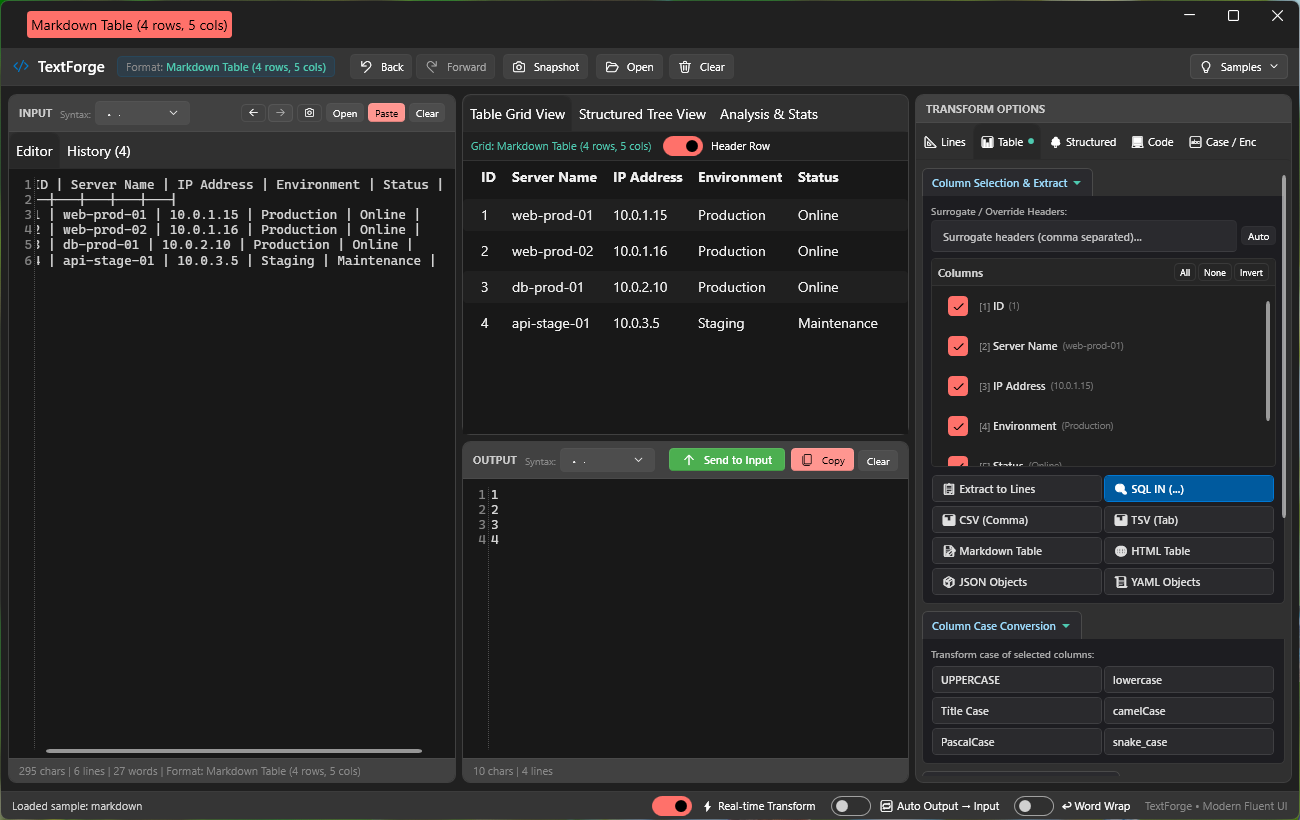
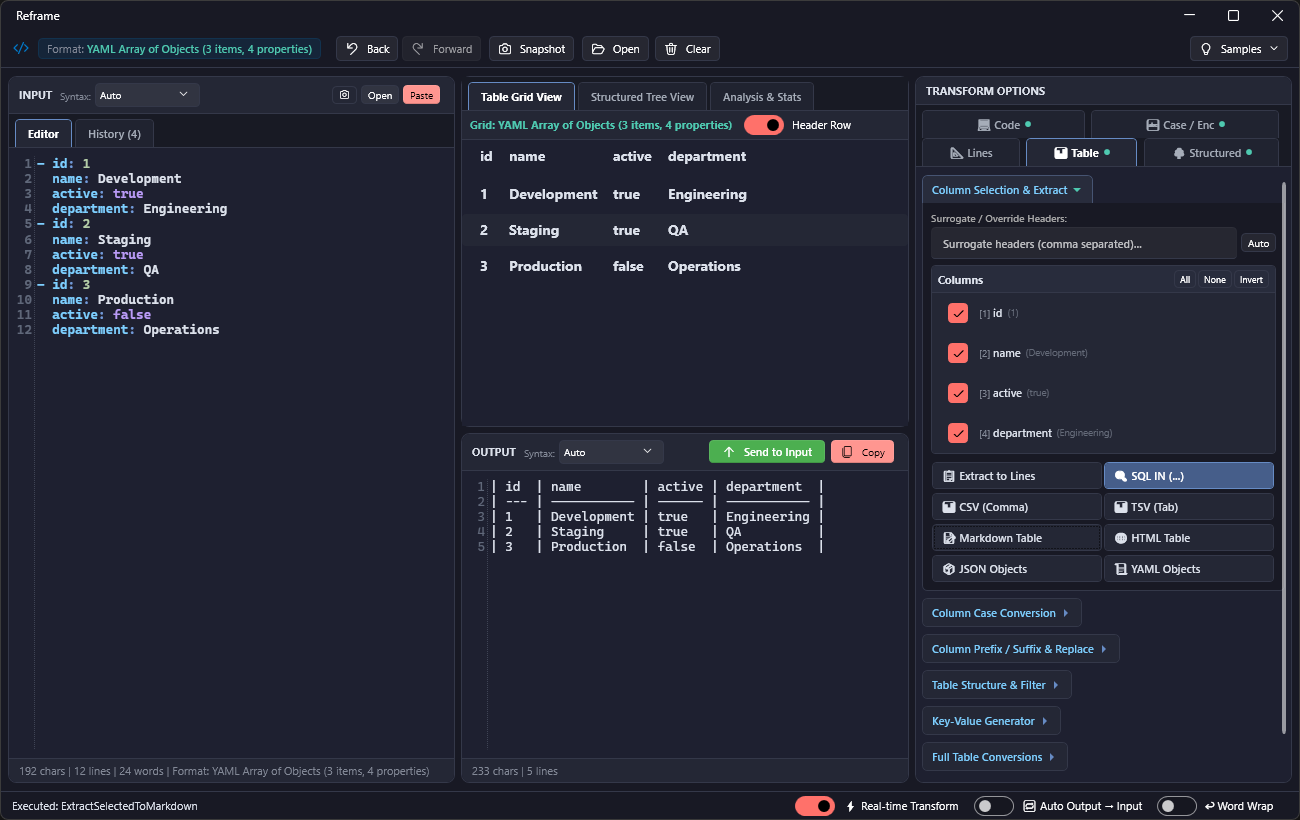
Update look and feel

Changed region(s): [[0.0, 0.0, 1.0, 1.0]]

diff --git a/Reframe/Highlighting/DarkThemeHighlighting.cs b/Reframe/Highlighting/DarkThemeHighlighting.cs
@@ -122,20 +122,20 @@ public static class DarkThemeHighlighting
 
         // XSHD definition for CSV / TSV with rich dark navy theme colors:
         // - Quoted strings (warm orange #CE9178)
-        // - Delimiters (bold slate blue #668BC4)
+        // - Delimiters (bold slate blue #729BDB)
         // - Numbers / numeric cells (soft sage green #B5CEA8)
-        // - Booleans / null keywords (purple #A78BFA)
+        // - Booleans / null keywords (bright purple #BA9BF7)
         // - Date / timestamps (teal #4EC9B0)
-        // - Comments (slate gray #5C6682)
+        // - Comments (slate gray #6E7894)
         // - Default unquoted field text (crisp foreground #DCE1EB)
         string xshd = $@"<?xml version=""1.0"" encoding=""utf-8""?>
 <SyntaxDefinition name=""{name}"" extensions=""{string.Join(";", extensions)}"" xmlns=""http://icsharpcode.net/sharpdevelop/syntaxdefinition/2008"">
-    <Color name=""Delimiter"" foreground=""#668BC4"" fontWeight=""bold"" />
+    <Color name=""Delimiter"" foreground=""#729BDB"" fontWeight=""bold"" />
     <Color name=""QuotedString"" foreground=""#CE9178"" />
     <Color name=""Number"" foreground=""#B5CEA8"" />
-    <Color name=""BooleanOrNull"" foreground=""#A78BFA"" fontWeight=""bold"" />
+    <Color name=""BooleanOrNull"" foreground=""#BA9BF7"" fontWeight=""bold"" />
     <Color name=""DateTime"" foreground=""#4EC9B0"" />
-    <Color name=""HeaderComment"" foreground=""#5C6682"" fontStyle=""italic"" />
+    <Color name=""HeaderComment"" foreground=""#6E7894"" fontStyle=""italic"" />
 
     <RuleSet>
         <!-- Comments (lines starting with # or //) -->
@@ -198,13 +198,13 @@ public static class DarkThemeHighlighting
     {
         string xshd = @"<?xml version=""1.0"" encoding=""utf-8""?>
 <SyntaxDefinition name=""YAML"" extensions="".yaml;.yml"" xmlns=""http://icsharpcode.net/sharpdevelop/syntaxdefinition/2008"">
-    <Color name=""Comment"" foreground=""#5C6682"" fontStyle=""italic"" />
+    <Color name=""Comment"" foreground=""#6E7894"" fontStyle=""italic"" />
     <Color name=""QuotedString"" foreground=""#CE9178"" />
     <Color name=""Key"" foreground=""#7DCFFF"" />
-    <Color name=""Delimiter"" foreground=""#668BC4"" fontWeight=""bold"" />
+    <Color name=""Delimiter"" foreground=""#729BDB"" fontWeight=""bold"" />
     <Color name=""Number"" foreground=""#B5CEA8"" />
-    <Color name=""BooleanOrNull"" foreground=""#A78BFA"" fontWeight=""bold"" />
-    <Color name=""Directive"" foreground=""#6B7CA8"" />
+    <Color name=""BooleanOrNull"" foreground=""#BA9BF7"" fontWeight=""bold"" />
+    <Color name=""Directive"" foreground=""#8294C4"" />
 
     <RuleSet>
         <!-- Comments -->
@@ -276,17 +276,17 @@ public static class DarkThemeHighlighting
 
     private static IHighlightingDefinition ApplyDarkThemeColors(IHighlightingDefinition definition)
     {
-        // Desaturated dark navy theme color palette (Calm Slate Blue rgb(30, 32, 48) style)
-        var keywordBrush = new SimpleHighlightingBrush(Color.FromRgb(0x66, 0x8B, 0xC4));       // #668BC4 Slate Blue
-        var controlFlowBrush = new SimpleHighlightingBrush(Color.FromRgb(0xA7, 0x8B, 0xFA));   // #A78BFA Soft Lavender
+        // Bright, high-contrast dark navy theme color palette
+        var keywordBrush = new SimpleHighlightingBrush(Color.FromRgb(0x72, 0x9B, 0xDB));       // #729BDB Bright Slate Blue
+        var controlFlowBrush = new SimpleHighlightingBrush(Color.FromRgb(0xBA, 0x9B, 0xF7));   // #BA9BF7 Bright Lavender/Purple
         var stringBrush = new SimpleHighlightingBrush(Color.FromRgb(0xCE, 0x91, 0x78));        // #CE9178 Warm Orange
-        var commentBrush = new SimpleHighlightingBrush(Color.FromRgb(0x5C, 0x66, 0x82));       // #5C6682 Slate Gray
+        var commentBrush = new SimpleHighlightingBrush(Color.FromRgb(0x6E, 0x78, 0x94));       // #6E7894 Readable Slate Gray
         var numberBrush = new SimpleHighlightingBrush(Color.FromRgb(0xB5, 0xCE, 0xA8));        // #B5CEA8 Soft Sage Green
         var typeBrush = new SimpleHighlightingBrush(Color.FromRgb(0x4E, 0xC9, 0xB0));          // #4EC9B0 Teal
         var methodBrush = new SimpleHighlightingBrush(Color.FromRgb(0xDC, 0xDC, 0xAA));        // #DCDCAA Soft Gold / Yellow
         var propertyBrush = new SimpleHighlightingBrush(Color.FromRgb(0x7D, 0xCF, 0xFF));      // #7DCFFF Light Cyan Blue
         var punctuationBrush = new SimpleHighlightingBrush(Color.FromRgb(0xDC, 0xE1, 0xEB));   // #DCE1EB Crisp Slate Foreground
-        var preprocessorBrush = new SimpleHighlightingBrush(Color.FromRgb(0x6B, 0x7C, 0xA8));  // #6B7CA8 Muted Slate
+        var preprocessorBrush = new SimpleHighlightingBrush(Color.FromRgb(0x82, 0x94, 0xC4));  // #8294C4 Bright Muted Slate
         var linkBrush = new SimpleHighlightingBrush(Color.FromRgb(0x4E, 0xA6, 0xEA));          // #4EA6EA Bright Sky Blue / Link
 
         foreach (var color in definition.NamedHighlightingColors)
@@ -301,31 +301,31 @@ public static class DarkThemeHighlighting
             {
                 color.Foreground = linkBrush;
             }
-            else if (name.Contains("control") || name.Contains("goto") || name.Contains("keyword1"))
+            else if (name.Contains("control") || name.Contains("goto") || name.Contains("keyword1") || name.Contains("bool") || name.Contains("null") || name.Contains("truefalse"))
             {
                 color.Foreground = controlFlowBrush;
             }
-            else if (name.Contains("keyword") || name.Contains("reserved") || name.Contains("statement"))
+            else if (name.Contains("keyword") || name.Contains("reserved") || name.Contains("statement") || name.Contains("visibility") || name.Contains("modifier") || name.Contains("access") || name.Contains("package") || name.Contains("friend") || name.Contains("getset") || name.Contains("selector") || name.Contains("heading") || name.Contains("intrinsic"))
             {
                 color.Foreground = keywordBrush;
             }
-            else if (name.Contains("type") || name.Contains("class") || name.Contains("interface") || name.Contains("struct"))
+            else if (name.Contains("type") || name.Contains("class") || name.Contains("interface") || name.Contains("struct") || name.Contains("namespace") || name.Contains("enum"))
             {
                 color.Foreground = typeBrush;
             }
-            else if (name.Contains("string") || name.Contains("char"))
+            else if (name.Contains("string") || name.Contains("char") || name.Contains("regex"))
             {
                 color.Foreground = stringBrush;
             }
-            else if (name.Contains("method") || name.Contains("function") || name.Contains("call"))
+            else if (name.Contains("method") || name.Contains("function") || name.Contains("call") || name.Contains("command"))
             {
                 color.Foreground = methodBrush;
             }
-            else if (name.Contains("number") || name.Contains("digit") || name.Contains("literal"))
+            else if (name.Contains("number") || name.Contains("digit") || name.Contains("literal") || name.Contains("value"))
             {
                 color.Foreground = numberBrush;
             }
-            else if (name.Contains("property") || name.Contains("attribute") || name.Contains("param"))
+            else if (name.Contains("property") || name.Contains("attribute") || name.Contains("param") || name.Contains("fieldname") || name.Contains("variable") || name.Contains("field"))
             {
                 color.Foreground = propertyBrush;
             }
@@ -333,11 +333,11 @@ public static class DarkThemeHighlighting
             {
                 color.Foreground = keywordBrush;
             }
-            else if (name.Contains("preprocessor") || name.Contains("directive"))
+            else if (name.Contains("preprocessor") || name.Contains("directive") || name.Contains("cdata") || name.Contains("xmldeclaration") || name.Contains("doctype") || name.Contains("blockquote"))
             {
                 color.Foreground = preprocessorBrush;
             }
-            else if (name.Contains("punctuation") || name.Contains("delimiter"))
+            else if (name.Contains("punctuation") || name.Contains("delimiter") || name.Contains("operator") || name.Contains("slash") || name.Contains("assignment") || name.Contains("entity"))
             {
                 color.Foreground = punctuationBrush;
             }
@@ -347,9 +347,36 @@ public static class DarkThemeHighlighting
                 if (color.Foreground is SimpleHighlightingBrush simpleBrush)
                 {
                     var c = simpleBrush.GetColor(null);
-                    if (c.HasValue && c.Value.R < 80 && c.Value.G < 80 && c.Value.B < 80)
+                    if (c.HasValue)
                     {
-                        color.Foreground = punctuationBrush;
+                        double luminance = 0.299 * c.Value.R + 0.587 * c.Value.G + 0.114 * c.Value.B;
+                        if (luminance < 140)
+                        {
+                            // If it's a blue tone (B high, R/G low)
+                            if (c.Value.B > c.Value.R && c.Value.B > c.Value.G)
+                            {
+                                color.Foreground = keywordBrush;
+                            }
+                            // If it's a purple/magenta tone (R and B high, G low)
+                            else if (c.Value.R > c.Value.G && c.Value.B > c.Value.G)
+                            {
+                                color.Foreground = controlFlowBrush;
+                            }
+                            // If it's a red/brown tone (R high, G/B low)
+                            else if (c.Value.R > c.Value.G && c.Value.R > c.Value.B)
+                            {
+                                color.Foreground = stringBrush;
+                            }
+                            // If it's a green tone (G high, R/B low)
+                            else if (c.Value.G > c.Value.R && c.Value.G > c.Value.B)
+                            {
+                                color.Foreground = typeBrush;
+                            }
+                            else
+                            {
+                                color.Foreground = punctuationBrush;
+                            }
+                        }
                     }
                 }
             }

diff --git a/Reframe.Tests/HighlightingTests.cs b/Reframe.Tests/HighlightingTests.cs
@@ -83,10 +83,10 @@ public class HighlightingTests
 
         var color = keywordColor.Foreground.GetColor(null);
         Assert.True(color.HasValue);
-        // #668BC4: R=102 (0x66), G=139 (0x8B), B=196 (0xC4)
-        Assert.Equal(0x66, color.Value.R);
-        Assert.Equal(0x8B, color.Value.G);
-        Assert.Equal(0xC4, color.Value.B);
+        // #729BDB: R=114 (0x72), G=155 (0x9B), B=219 (0xDB)
+        Assert.Equal(0x72, color.Value.R);
+        Assert.Equal(0x9B, color.Value.G);
+        Assert.Equal(0xDB, color.Value.B);
     }
 
     [Fact]
@@ -101,9 +101,33 @@ public class HighlightingTests
 
         var color = delimiterColor.Foreground.GetColor(null);
         Assert.True(color.HasValue);
-        // #668BC4: R=102 (0x66), G=139 (0x8B), B=196 (0xC4)
-        Assert.Equal(0x66, color.Value.R);
-        Assert.Equal(0x8B, color.Value.G);
-        Assert.Equal(0xC4, color.Value.B);
+        // #729BDB: R=114 (0x72), G=155 (0x9B), B=219 (0xDB)
+        Assert.Equal(0x72, color.Value.R);
+        Assert.Equal(0x9B, color.Value.G);
+        Assert.Equal(0xDB, color.Value.B);
+    }
+
+    [Fact]
+    public void GetDefinition_AllSupportedLanguages_HaveNoDarkUnreadableTokens()
+    {
+        foreach (var lang in DarkThemeHighlighting.SupportedLanguages)
+        {
+            var def = DarkThemeHighlighting.GetDefinition(lang);
+            if (def == null) continue;
+            foreach (var col in def.NamedHighlightingColors)
+            {
+                var c = col.Foreground?.GetColor(null);
+                if (!c.HasValue) continue;
+
+                // Ensure no tokens have low luminance or dark unmapped colors (like pure blue #0000FF, dark magenta #8B008B, etc.)
+                double luminance = 0.299 * c.Value.R + 0.587 * c.Value.G + 0.114 * c.Value.B;
+                // Comments and directives can be slightly muted (>= 110)
+                Assert.True(luminance >= 110, $"Language '{lang}' token '{col.Name}' has low luminance {luminance:F1} (#{c.Value.R:X2}{c.Value.G:X2}{c.Value.B:X2})");
+                
+                // Assert no dark pure blue or dark purple
+                Assert.False(c.Value.R == 0 && c.Value.G == 0 && c.Value.B > 0, $"Language '{lang}' token '{col.Name}' has unmapped dark blue #{c.Value.R:X2}{c.Value.G:X2}{c.Value.B:X2}");
+                Assert.False(c.Value.R < 140 && c.Value.G == 0 && c.Value.B < 140, $"Language '{lang}' token '{col.Name}' has unmapped dark purple #{c.Value.R:X2}{c.Value.G:X2}{c.Value.B:X2}");
+            }
+        }
     }
 }

diff --git a/Reframe/Controls/BindableTextEditor.cs b/Reframe/Controls/BindableTextEditor.cs
@@ -34,7 +34,7 @@ public class BindableTextEditor : TextEditor
         // Setup Dark Navy Theme Defaults rgb(30, 32, 48)
         Background = new SolidColorBrush(Color.FromRgb(0x1E, 0x20, 0x30));
         Foreground = new SolidColorBrush(Color.FromRgb(0xDC, 0xE1, 0xEB));
-        LineNumbersForeground = new SolidColorBrush(Color.FromRgb(0x52, 0x58, 0x66));
+        LineNumbersForeground = new SolidColorBrush(Color.FromRgb(0x60, 0x68, 0x7A));
         ShowLineNumbers = true;
         FontFamily = new FontFamily("Consolas, Cascadia Code, JetBrains Mono, Courier New, monospace");
         FontSize = 13;
